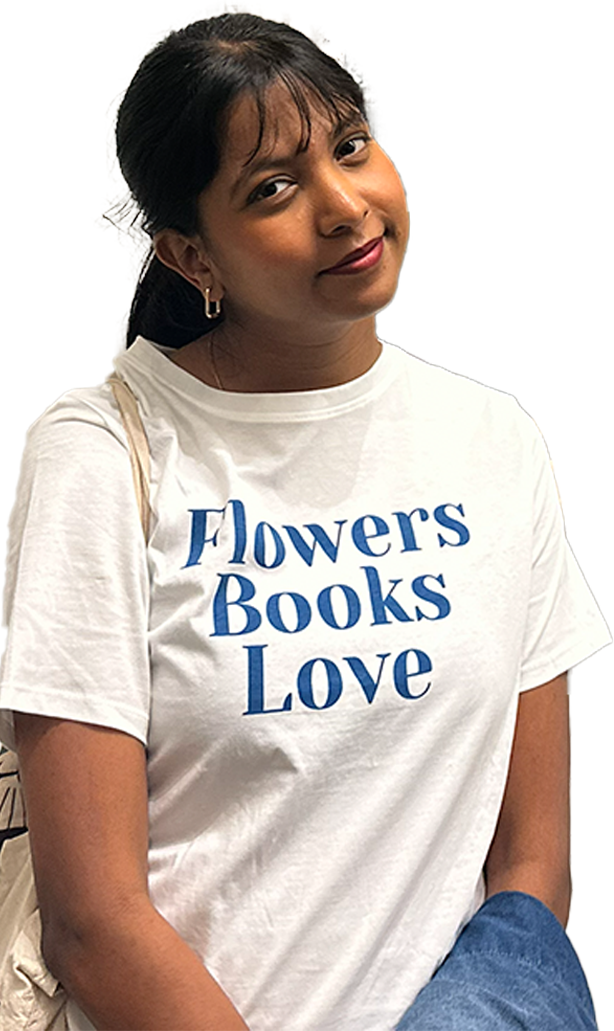
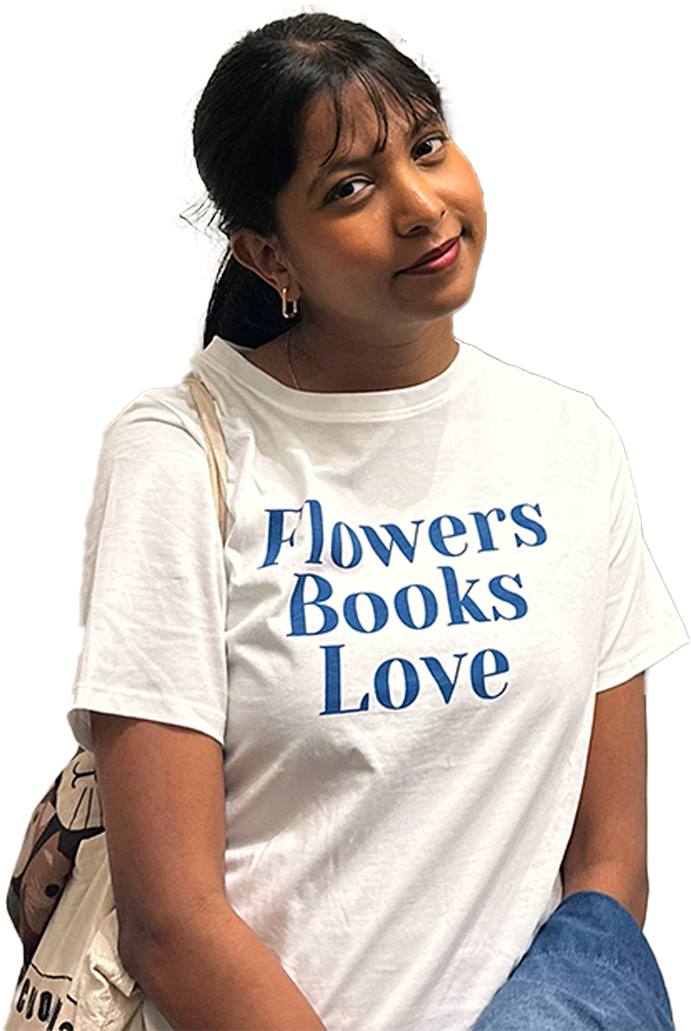
about changes

diff --git a/src/components/About.tsx b/src/components/About.tsx
@@ -1,8 +1,8 @@
 "use client";
 
-import { useRef, useMemo } from "react";
+import { useRef, useMemo, useState } from "react";
 import Image from "next/image";
-import { motion, useScroll, useTransform, MotionValue } from "framer-motion";
+import { motion, useScroll, useTransform, useMotionValueEvent, MotionValue } from "framer-motion";
 import GlassCard from "./ui/GlassCard";
 import SectionTitleOverlay from "./ui/SectionTitleOverlay";
 import SectionContentWrapper from "./ui/SectionContentWrapper";
@@ -36,11 +36,21 @@ function TypewriterWord({ word, progress, range }: WordProps) {
 
 export default function About() {
   const targetRef = useRef<HTMLDivElement>(null);
+  const [revealed, setRevealed] = useState(false);
 
   // Track scroll progress of this section across an expanded 320vh track
   const { scrollYProgress } = useScroll({
     target: targetRef,
     offset: ["start start", "end end"],
+  });
+
+  // Trigger smooth fade-up animations when the section content arrives
+  useMotionValueEvent(scrollYProgress, "change", (latest) => {
+    if (latest >= 0.18) {
+      setRevealed(true);
+    } else if (latest < 0.08) {
+      setRevealed(false);
+    }
   });
 
   // Floating animation variants for decorative items (hairdryer and shopping cart)
@@ -65,93 +75,93 @@ export default function About() {
 
   return (
     <section id="about" ref={targetRef} className="relative w-full h-[320vh] bg-transparent">
-      
+
       {/* Sticky container that stays in view while scrolling */}
       <div className="sticky top-0 h-screen w-full overflow-hidden flex flex-col justify-center items-center">
-        
+
         {/* Animated Background Title */}
         <SectionTitleOverlay title="ABOUT" scrollYProgress={scrollYProgress} />
 
         {/* Animated Content Wrapper: arrives between 0.18 and 0.35, then locks into place */}
         <SectionContentWrapper scrollYProgress={scrollYProgress} yRange={[0.18, 0.35]}>
-          
-          <div className="w-full max-w-[1300px] mx-auto flex flex-col items-center relative z-10 px-4 sm:px-8 md:px-12 lg:px-16">
-            
-            {/* Central Glass Card Container with overflow-visible so hero head & floating decor can break out */}
-            <div className="relative w-full overflow-visible">
-              
-              {/* Floating Decor: Hairdryer (Top Right) */}
-              <div className="absolute -top-10 -right-2 sm:-top-14 sm:-right-4 md:-top-16 md:-right-6 lg:-top-20 lg:-right-8 z-40 pointer-events-none">
+
+          <div className="w-full h-full flex items-center justify-center relative z-10 px-4 sm:px-6 md:px-8">
+
+            {/* Central Glass Card Container - Smaller width & centered horizontally */}
+            <div className="relative w-full max-w-[1080px] mx-auto overflow-visible flex items-center justify-center">
+
+              {/* Grounded Hero Image: fixed to the left edge of the card, reduced in size */}
+              <motion.div
+                initial={{ opacity: 0, y: 60 }}
+                animate={revealed ? { opacity: 1, y: 0 } : { opacity: 0, y: 60 }}
+                transition={{ duration: 0.9, ease: [0.16, 1, 0.3, 1], delay: 0.05 }}
+                className="absolute bottom-0 left-0 z-30 pointer-events-none select-none flex items-end h-[440px] sm:h-[480px] md:h-[520px] lg:h-[560px] max-h-[82vh]"
+              >
+                <Image
+                  src={aboutHero}
+                  alt="Swathy Moorthy About"
+                  priority
+                  className="h-full w-auto object-contain object-bottom select-none origin-bottom drop-shadow-[-8px_16px_32px_rgba(0,0,0,0.4)]"
+                />
+              </motion.div>
+
+              {/* Floating Decor: Hairdryer (Top Right) with smooth fade-up entrance */}
+              <motion.div
+                initial={{ opacity: 0, y: 50 }}
+                animate={revealed ? { opacity: 1, y: 0 } : { opacity: 0, y: 50 }}
+                transition={{ duration: 0.9, ease: [0.16, 1, 0.3, 1], delay: 0.2 }}
+                className="absolute -top-7 -right-2 sm:-top-9 sm:-right-3 md:-top-11 md:-right-4 lg:-top-14 lg:-right-6 z-40 pointer-events-none"
+              >
                 <motion.div custom={0} variants={floatVariants} animate="floating">
                   <Image
                     src={hairdryer}
                     alt="Hairdryer"
-                    className="w-[85px] sm:w-[110px] md:w-[140px] lg:w-[170px] h-auto object-contain drop-shadow-[0_12px_24px_rgba(0,0,0,0.5)] rotate-[15deg]"
+                    className="w-[65px] sm:w-[82px] md:w-[102px] lg:w-[125px] h-auto object-contain drop-shadow-[0_10px_24px_rgba(0,0,0,0.5)] rotate-[15deg]"
                     priority
                   />
                 </motion.div>
-              </div>
+              </motion.div>
 
-              {/* Floating Decor: Shopping Cart (Bottom Right) */}
-              <div className="absolute -bottom-8 -right-4 sm:-bottom-10 sm:-right-6 md:-bottom-12 md:-right-8 lg:-bottom-14 lg:-right-10 z-40 pointer-events-none">
+              {/* Floating Decor: Shopping Cart (Bottom Right) with smooth fade-up entrance */}
+              <motion.div
+                initial={{ opacity: 0, y: 50 }}
+                animate={revealed ? { opacity: 1, y: 0 } : { opacity: 0, y: 50 }}
+                transition={{ duration: 0.9, ease: [0.16, 1, 0.3, 1], delay: 0.3 }}
+                className="absolute -bottom-7 -right-2 sm:-bottom-9 sm:-right-3 md:-bottom-11 md:-right-4 lg:-bottom-13 lg:-right-6 z-40 pointer-events-none"
+              >
                 <motion.div custom={1.5} variants={floatVariants} animate="floating">
                   <Image
                     src={cart}
                     alt="Shopping Cart"
-                    className="w-[95px] sm:w-[125px] md:w-[155px] lg:w-[190px] h-auto object-contain drop-shadow-[0_12px_24px_rgba(0,0,0,0.5)]"
+                    className="w-[75px] sm:w-[95px] md:w-[118px] lg:w-[140px] h-auto object-contain drop-shadow-[0_10px_24px_rgba(0,0,0,0.5)]"
                     priority
                   />
                 </motion.div>
-              </div>
+              </motion.div>
 
-              {/* Main Card */}
+              {/* Main Centered Glass Card - Reduced width & height */}
               <div className="relative z-20 w-full">
-                <GlassCard className="w-full min-h-[440px] sm:min-h-[480px] md:min-h-[520px] lg:min-h-[560px] p-6 sm:p-10 md:p-14 lg:p-16 rounded-[32px] sm:rounded-[40px] md:rounded-[48px] bg-white/10 backdrop-blur-3xl shadow-[0_8px_32px_0_rgba(31,38,135,0.07)] border border-white/20 flex items-center relative overflow-visible">
-                  
-                  {/* Grounded Hero Image: positioned on the left, head breaking out above the card */}
-                  <div className="absolute bottom-0 left-[-15px] sm:left-[-10px] md:left-[5px] lg:left-[20px] w-[260px] sm:w-[320px] md:w-[400px] lg:w-[470px] xl:w-[500px] h-auto z-30 pointer-events-none flex items-end">
-                    <Image
-                      src={aboutHero}
-                      alt="Swathy Moorthy About"
-                      priority
-                      className="w-full h-auto object-contain object-bottom select-none origin-bottom drop-shadow-[-8px_16px_32px_rgba(0,0,0,0.4)]"
-                    />
-                  </div>
+                <GlassCard className="w-full min-h-[400px] sm:min-h-[430px] md:min-h-[460px] lg:min-h-[490px] p-6 sm:p-8 md:p-10 lg:p-12 rounded-[28px] sm:rounded-[36px] md:rounded-[42px] bg-white/10 backdrop-blur-3xl shadow-[0_8px_32px_0_rgba(31,38,135,0.07)] border border-white/20 flex items-center relative overflow-visible">
 
-                  {/* Text Container with Floated Spacer for Text Wrap */}
-                  <div className="relative z-20 w-full text-left">
-                    
-                    {/* Floated silhouette spacer on the left to wrap text naturally around Swathy's profile */}
-                    <div
-                      className="hidden sm:block float-left pointer-events-none"
-                      style={{
-                        width: "36%",
-                        height: "460px",
-                        shapeOutside: "polygon(0 0, 52% 0, 62% 20%, 76% 40%, 90% 65%, 98% 100%, 0 100%)",
-                        clipPath: "polygon(0 0, 52% 0, 62% 20%, 76% 40%, 90% 65%, 98% 100%, 0 100%)",
-                      }}
-                    />
+                  {/* Normal Paragraph Text Container beside the image */}
+                  <div className="relative z-20 w-full flex justify-end items-center">
+                    <div className="w-full max-w-[580px] md:max-w-[620px] lg:max-w-[660px] text-left">
+                      <p className="text-sm sm:text-base md:text-[18px] lg:text-[19.5px] leading-[1.65] sm:leading-[1.7] md:leading-[1.75] font-futuraBook tracking-wide">
+                        {words.map((word, index) => {
+                          const wordStart = highlightStart + index * step;
+                          const wordEnd = Math.min(0.85, wordStart + step * 2.2);
 
-                    {/* Small screen mobile spacer */}
-                    <div className="block sm:hidden float-left w-[38%] h-[280px] pointer-events-none" />
-
-                    {/* Paragraph with Scroll-Driven Typewriter Highlight */}
-                    <p className="text-base sm:text-lg md:text-xl lg:text-[22px] xl:text-[24px] leading-[1.65] sm:leading-[1.7] md:leading-[1.75] lg:leading-[1.8] font-futuraBook tracking-wide">
-                      {words.map((word, index) => {
-                        const wordStart = highlightStart + index * step;
-                        const wordEnd = Math.min(0.85, wordStart + step * 2.2);
-
-                        return (
-                          <TypewriterWord
-                            key={index}
-                            word={word}
-                            progress={scrollYProgress}
-                            range={[wordStart, wordEnd]}
-                          />
-                        );
-                      })}
-                    </p>
-
+                          return (
+                            <TypewriterWord
+                              key={index}
+                              word={word}
+                              progress={scrollYProgress}
+                              range={[wordStart, wordEnd]}
+                            />
+                          );
+                        })}
+                      </p>
+                    </div>
                   </div>
 
                 </GlassCard>
